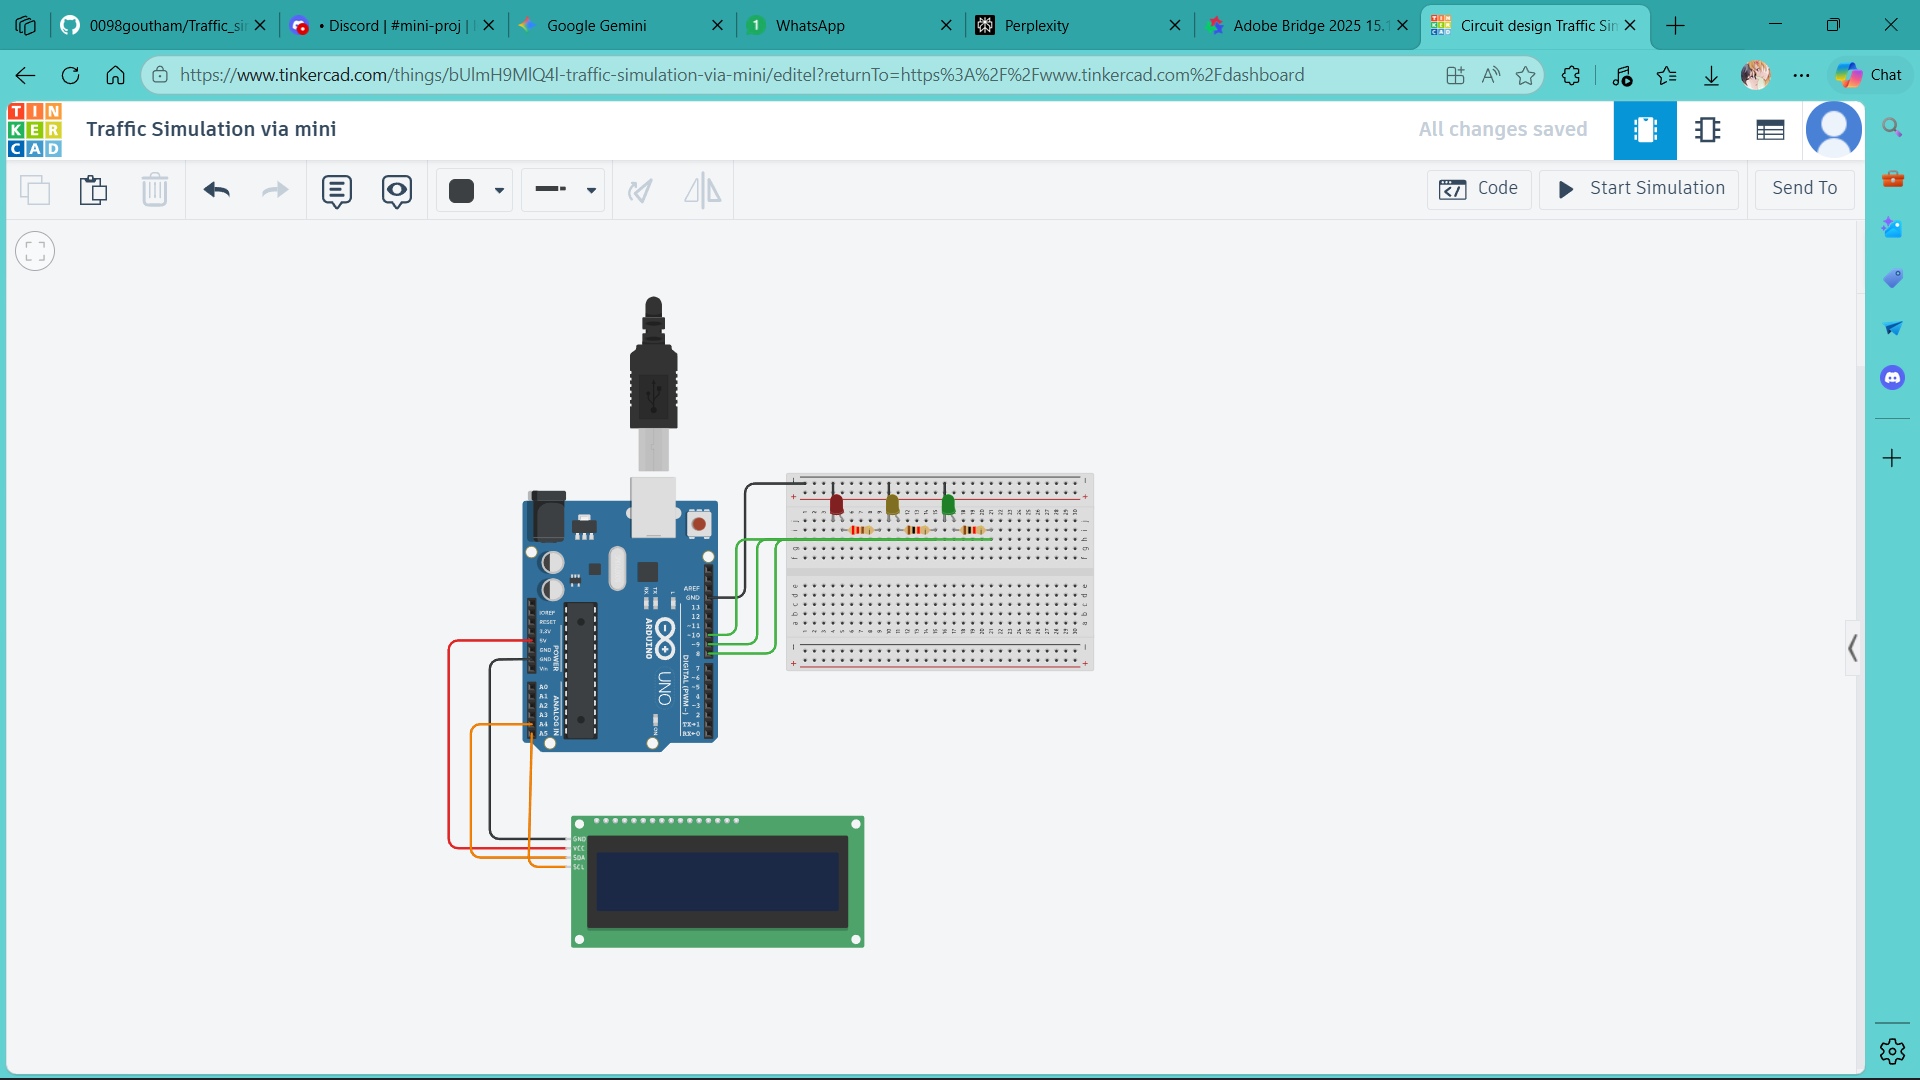
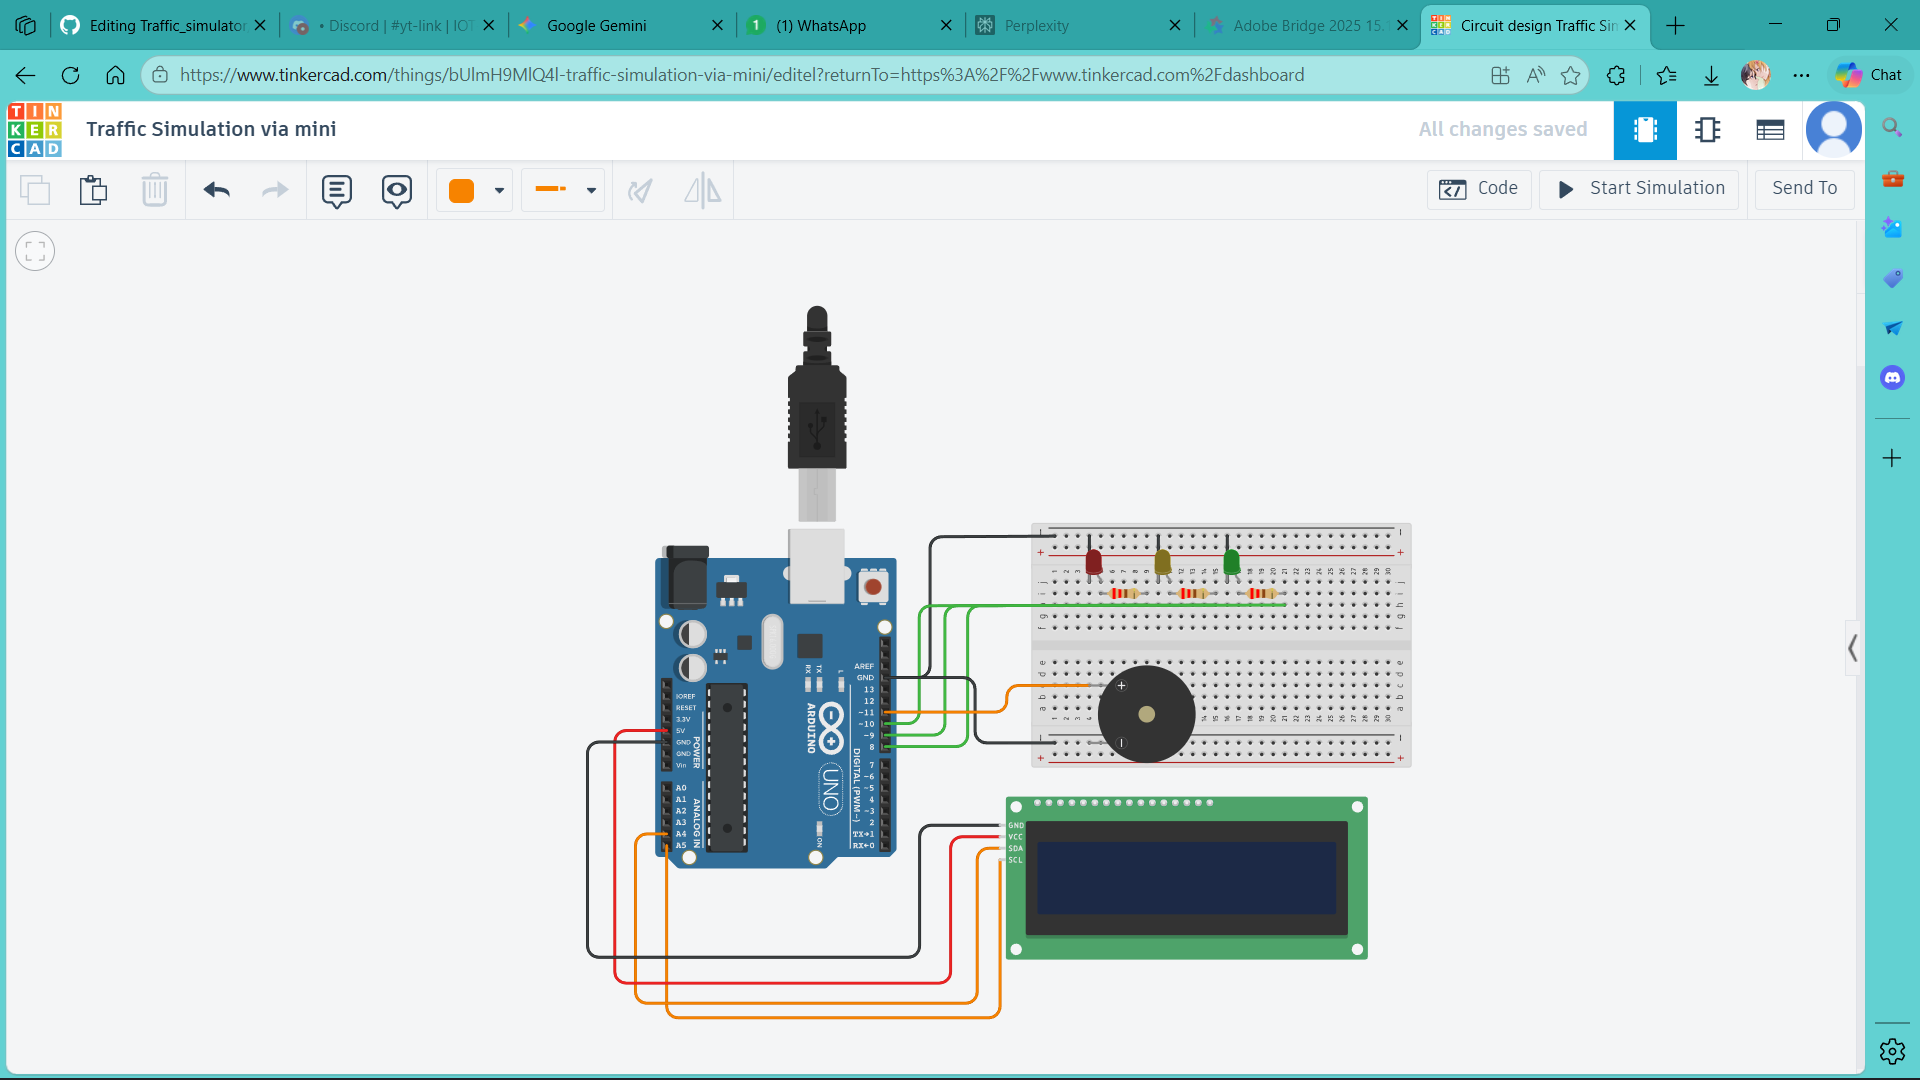
Added Tinkercad simulation files: new_schematic, new_components, and new circuit code

diff --git a/Thinkercad_Desigen_P016/Traffic_code.cpp b/Thinkercad_Desigen_P016/Traffic_code.cpp
@@ -1,17 +1,24 @@
 #include <Wire.h>
 #include <LiquidCrystal_I2C.h>
 
-// Set the LCD address to 0x27 for a 16 chars and 2 line display
-// (If 0x27 doesn't work, try 0x3F)
+// Set the LCD address to 0x27 for 16x2 display
 LiquidCrystal_I2C lcd(0x27, 16, 2);
 
-// Using 'byte' instead of 'int' saves memory space 
+// Pin Definitions
 const byte redLED = 8;
 const byte yellowLED = 9;
 const byte greenLED = 10;
+const byte buzzerPin = 11;
 
-void countdown(int time, String lightName) {
-  lcd.clear(); // Clear ONCE before the loop to prevent screen flickering
+/**
+ * countdown function
+ * @param time - seconds to count down
+ * @param lightName - text to show on Line 1
+ * @param isGreen - if true, pulses the buzzer every second
+ * @param isRedStart - if true, triggers a single 2-second long beep at the start
+ */
+void countdown(int time, String lightName, bool isGreen, bool isRedStart) {
+  lcd.clear();
   lcd.setCursor(0, 0);
   lcd.print(lightName);
   
@@ -19,14 +26,32 @@ void countdown(int time, String lightName) {
     lcd.setCursor(0, 1);
     lcd.print("Time: ");
     
-    // Add a leading zero for cleaner formatting (e.g., 09, 08)
-    if (i < 10) {
-      lcd.print("0"); 
-    }
+    // Formatting: Add leading zero for single digits
+    if (i < 10) lcd.print("0"); 
     lcd.print(i);
-    lcd.print("s "); // Extra space to cleanly overwrite leftover characters
+    lcd.print("s ");
+
+    // --- AUDIO LOGIC ---
     
-    delay(1000);
+    // 1. Initial 2-second Warning for RED
+    if (isRedStart && i == time) {
+      tone(buzzerPin, 400); // 800Hz warning tone
+      delay(2000);          // 2-second long beep
+      noTone(buzzerPin);
+      // We subtract 2 from the loop because the beep took 2 seconds
+      i = i - 1; 
+    } 
+    // 2. Pulsing Beeps for GREEN (Pedestrian safe)
+    else if (isGreen) {
+      tone(buzzerPin, 400); // 1KHz crossing tone
+      delay(100);            // Short chirp
+      noTone(buzzerPin);
+      delay(900);            // Wait for rest of the second
+    } 
+    // 3. Standard Delay for YELLOW/RED (after initial beep)
+    else {
+      delay(1000);
+    }
   }
 }
 
@@ -34,26 +59,38 @@ void setup() {
   pinMode(redLED, OUTPUT);
   pinMode(yellowLED, OUTPUT);
   pinMode(greenLED, OUTPUT);
+  pinMode(buzzerPin, OUTPUT);
   
-  // Initialize the I2C LCD
   lcd.init();
   lcd.backlight();
+  
+  // Initial LCD Greeting
+  lcd.setCursor(0,0);
+  lcd.print("Traffic System");
+  lcd.setCursor(0,1);
+  lcd.print("Initializing...");
+  delay(2000);
 }
 
 void loop() {
+  // --- RED PHASE ---
   digitalWrite(greenLED, LOW);
   digitalWrite(yellowLED, LOW);
   digitalWrite(redLED, HIGH);
-  countdown(8, "RED");
+  // Parameters: 8s, Label, IsGreen=False, IsRedStart=True
+  countdown(8, "RED - STOP!", false, true);
   
-  // Red to Green (Standard traffic sequence)
+  // --- GREEN PHASE ---
   digitalWrite(greenLED, HIGH);
   digitalWrite(yellowLED, LOW);
   digitalWrite(redLED, LOW);
-  countdown(8, "GREEN");
+  // Parameters: 8s, Label, IsGreen=True, IsRedStart=False
+  countdown(8, "GREEN - GO GO", true, false);
   
+  // --- YELLOW PHASE ---
   digitalWrite(greenLED, LOW);
   digitalWrite(yellowLED, HIGH);
   digitalWrite(redLED, LOW);
-  countdown(3, "YELLOW");
+  // Parameters: 3s, Label, IsGreen=False, IsRedStart=False
+  countdown(3, "YELLOW - WAIT", false, false);
 }

diff --git a/Thinkercad_Desigen_P016/Readme.md b/Thinkercad_Desigen_P016/Readme.md
@@ -1,24 +1,29 @@
-# 🚦 Tinkercad Traffic Simulator Design
+# 🚦 Smart Traffic Management System (Tinkercad Simulation)
 
-This folder contains the circuit simulation and logic for the Traffic Simulator project.
+This sub-project focuses on a **density-aware and accessible** traffic signaling system. It uses an I2C-enabled LCD for real-time countdowns and synchronized audio feedback for enhanced safety.
 
-## 🖼 Circuit Preview
-![Circuit Schematic](./your_image_name.png)
-*Link to Tinkercad: [Paste your Tinkercad Public Link Here]*
+## 🖼 Circuit Design
+![Traffic Simulator Circuit Design]()
 
-## 🛠 Components Used
+## 🛠 Components List
 * **Microcontroller:** Arduino Uno R3
-* **Sensors:** 4x PIR/IR Sensors (for vehicle detection)
-* **Outputs:** 12x LEDs (Red, Yellow, Green for 4-way junction)
-* **Resistors:** 12x 220Ω Resistors
+* **Display:** 16x2 LCD with I2C Module (PCF8574)
+* **Visual Output:** High-intensity LEDs (Red, Yellow, Green)
+* **Audio Output:** Piezo Buzzer (5V)
+* **Passive Components:** 220Ω Resistors (x3)
 
-## 📜 Logic Overview
-The code implements a **Density-Based Traffic Control System**. 
-1. The sensors check for vehicle presence on each road.
-2. If density is high on Road A, the Green light duration is extended.
-3. Uses `millis()` for non-blocking timing to ensure smooth transitions.
+## 🔊 Acoustic Signaling Logic (UX Optimization)
+Unlike standard beepers, this system uses specific frequencies to reduce noise pollution while maintaining safety:
+* **RED Phase Start:** A single **2-second "Stop Alert" at 500Hz**. This lower frequency provides a "smooth" yet firm warning for vehicles to clear the junction.
+* **GREEN Phase:** A **1Hz pulsing tone at 600Hz**. This acts as an **Acoustic Pedestrian Signal (APS)**, assisting visually impaired users in crossing safely.
+* **YELLOW Phase:** Silent transition to minimize unnecessary noise during short intervals.
 
-## 📂 Files in this Folder
-* `traffic_logic.ino` - The primary Arduino/C++ code.
-* `schematic.png` - Full circuit wiring diagram.
-* `components.txt` - Detailed list of hardware.
+## 📜 Code Features
+* **Memory Efficient:** Uses `byte` data types for pin mapping to save SRAM.
+* **Non-Blocking Logic:** The countdown function manages the LCD refresh and Buzzer tones simultaneously.
+* **I2C Integration:** Reduced wiring complexity by using only 2 data pins (SDA/SCL) for the display.
+
+## 📂 Project Structure
+* `traffic_logic.ino`: Main Arduino C++ source code.
+* `README.md`: Project documentation and logic overview.
+* `components.txt`: Detailed hardware pin mapping.
